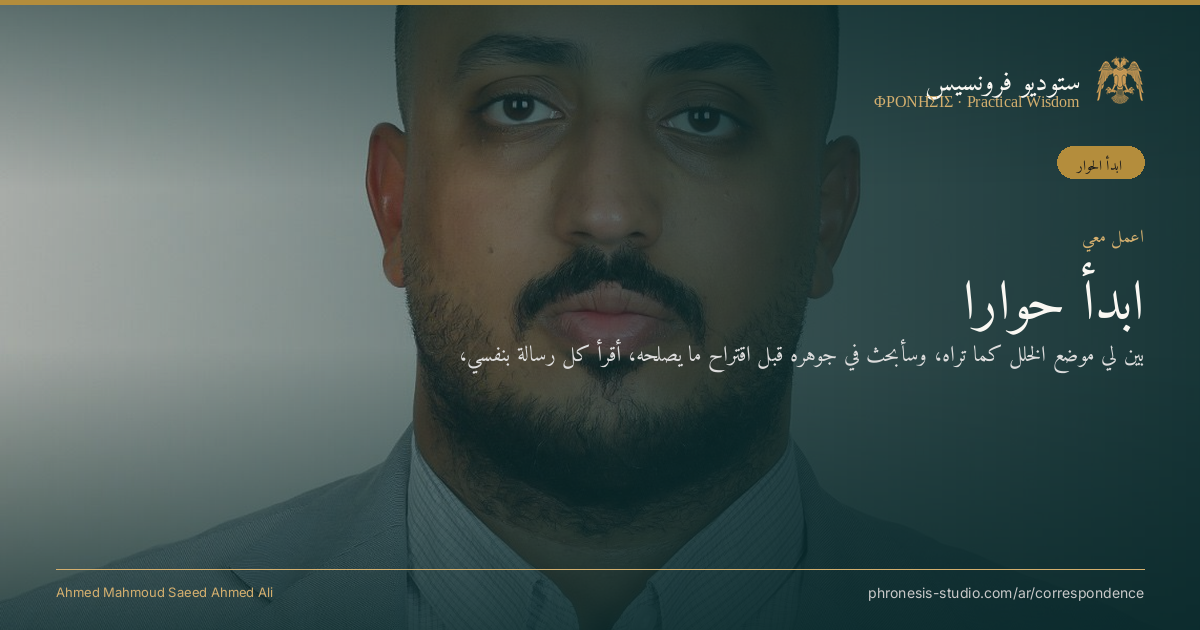
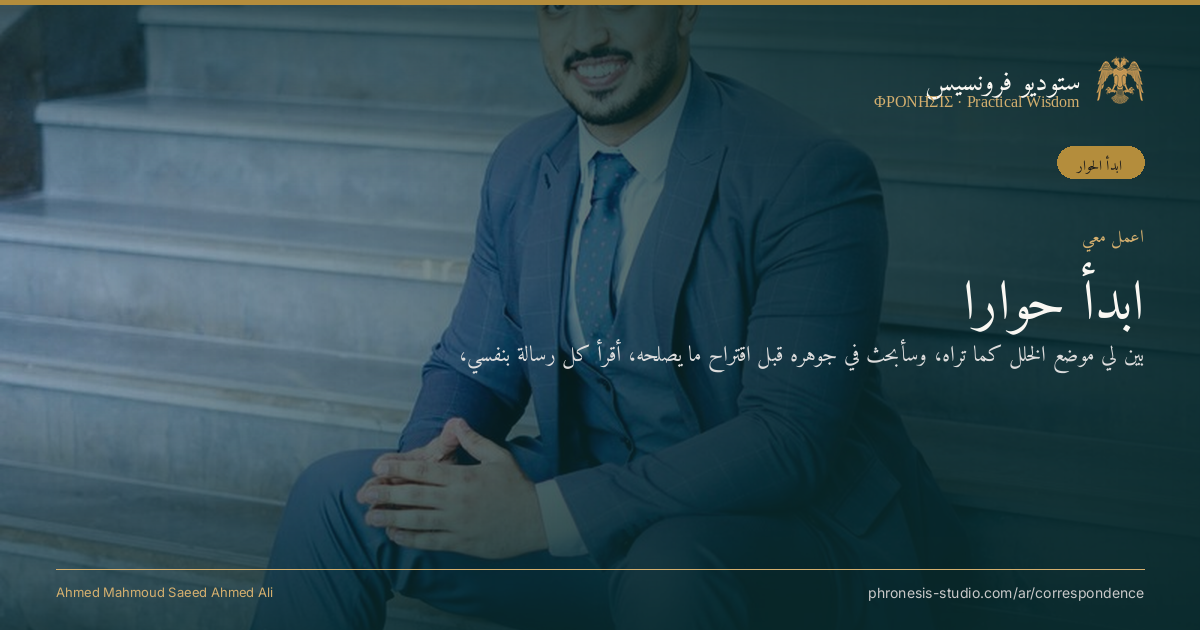
fix: endorsement container compact + Correspondence OG uses dedicated photo
Two fixes requested:

1. Endorsement landing page container was oversized (780px iframe) and
   did not match the Vouches section design. Replaced with a compact
   card matching the Vouches card pattern exactly:
   - small teal Download icon badge (top-left)
   - uppercase label
   - large serif author name
   - italic pull-quote
   - horizontal divider
   - titles + date+location
   - 'Download the full letter (PDF)' link
   No more iframe. Removed unused Quote, FileText, ExternalLink imports.

2. Correspondence page: the dedicated photograph you sent
   (founder-portrait-correspondence.jpg) was being shown as inline
   page content in the right sidebar (Contact.tsx), NOT as the OG image
   as you intended. Removed the inline portrait from the page content.
   Updated the Correspondence OG image route (both EN Satori and AR
   PIL) to use founder-portrait-correspondence.jpg as the background
   image, so the photograph now appears exclusively as the OG preview
   when the Correspondence page is shared on LinkedIn or social media.

diff --git a/src/app/[locale]/endorsements/[slug]/page.tsx b/src/app/[locale]/endorsements/[slug]/page.tsx
@@ -4,7 +4,7 @@ import { notFound } from "next/navigation";
 import { Nav } from "@/components/sections/Nav";
 import { Footer } from "@/components/sections/Footer";
 import { MouseProvider } from "@/components/anim";
-import { Download, ExternalLink, Quote, FileText } from "lucide-react";
+import { Download } from "lucide-react";
 import Link from "next/link";
 
 export const runtime = "nodejs";
@@ -149,76 +149,44 @@ export default async function EndorsementPage({
               {t("intro")}
             </p>
 
-            {/* Endorsement card */}
-            <div className="max-w-4xl rounded-2xl overflow-hidden border border-gold/30 bg-paper-warm shadow-[0_20px_60px_-20px_rgba(15,92,94,0.25)]">
-              {/* Header strip */}
-              <div
-                className={`flex items-start justify-between gap-3 px-5 md:px-7 py-5 border-b border-gold/20 bg-gradient-to-r from-teal/5 to-transparent ${isAR ? "flex-row-reverse" : ""}`}
-                dir={dir}
+            {/* Endorsement card, matching the Vouches section design */}
+            <div className="max-w-4xl">
+              <a
+                href={e.pdf}
+                target="_blank"
+                rel="noopener noreferrer"
+                download
+                className="group block max-w-2xl p-7 rounded-2xl bg-paper-warm border border-gold/30 hover:border-gold/60 transition-colors"
               >
-                <div className={isAR ? "text-right" : ""}>
-                  <p className="text-[10px] uppercase tracking-[0.2em] text-gold font-mono mb-2">
+                <div className={`flex items-center gap-3 mb-3 ${isAR ? "flex-row-reverse" : ""}`}>
+                  <div className="w-11 h-11 rounded-xl bg-teal/10 border border-teal/30 flex items-center justify-center text-teal flex-shrink-0">
+                    <Download size={18} strokeWidth={1.5} />
+                  </div>
+                  <span className="text-[10px] uppercase tracking-[0.18em] text-ink-dim font-mono leading-snug">
                     {label}
-                  </p>
-                  <p className="display text-ink text-xl md:text-2xl font-medium" style={headingFont}>
-                    {author}
-                  </p>
-                  <p className="body-serif text-xs md:text-sm text-ink-dim mt-2 leading-relaxed max-w-2xl">
+                  </span>
+                </div>
+
+                <h2 className="display text-ink text-2xl md:text-3xl mb-3 leading-tight" style={headingFont}>
+                  {author}
+                </h2>
+
+                <p className="body-serif text-sm text-ink-soft leading-relaxed mb-5 italic">
+                  &ldquo;{excerpt}&rdquo;
+                </p>
+
+                <div className="pt-5 border-t border-border">
+                  <p className="text-xs text-ink-dim body-serif mt-1 leading-relaxed">
                     {titleLine}
                   </p>
+                  <p className="text-xs text-ink-dim body-serif mt-2">{dateLocation}</p>
                 </div>
-                <p className="body-serif text-xs text-ink-dim italic whitespace-nowrap flex-shrink-0">
-                  {dateLocation}
-                </p>
-              </div>
 
-              {/* Pull-quote */}
-              <div className="relative px-5 md:px-7 py-6 border-b border-gold/20 bg-paper-warm/40" dir={dir}>
-                <Quote
-                  className={`absolute ${isAR ? "left-5" : "right-5"} top-5 text-gold/20`}
-                  size={40}
-                  strokeWidth={1}
-                />
-                <blockquote
-                  className={`body-serif text-base md:text-lg text-ink leading-relaxed italic ${isAR ? "text-right" : ""} pr-12`}
-                >
-                  &ldquo;{excerpt}&rdquo;
-                </blockquote>
-              </div>
-
-              {/* Embedded PDF viewer */}
-              <div className="bg-white">
-                <iframe
-                  src={`${e.pdf}#view=FitH&toolbar=1&navpanes=0`}
-                  title={`${label} · ${author}`}
-                  className="w-full"
-                  style={{ height: "780px", border: "0", display: "block" }}
-                />
-              </div>
-
-              {/* Download button footer */}
-              <div
-                className={`flex items-center justify-between gap-3 px-5 md:px-7 py-5 border-t border-gold/20 bg-paper-warm flex-wrap ${isAR ? "flex-row-reverse" : ""}`}
-                dir={dir}
-              >
-                <a
-                  href={e.pdf}
-                  target="_blank"
-                  rel="noopener noreferrer"
-                  download
-                  className="inline-flex items-center gap-2 bg-teal hover:bg-teal-bright text-paper text-xs sm:text-sm font-medium px-4 sm:px-5 py-2.5 rounded-full transition-colors whitespace-nowrap"
-                >
-                  <Download size={14} className="flex-shrink-0" />
-                  {t("downloadPdf")}
-                </a>
-                <Link
-                  href={`/${locale}/publications/${e.bookSlug}`}
-                  className={`inline-flex items-center gap-2 text-xs sm:text-sm text-teal hover:text-teal-bright transition-colors ${isAR ? "flex-row-reverse" : ""}`}
-                >
-                  <FileText size={14} />
-                  {t("viewBookPage")}
-                </Link>
-              </div>
+                <div className={`mt-5 inline-flex items-center gap-2 text-xs text-teal group-hover:text-teal-bright transition-colors ${isAR ? "flex-row-reverse" : ""}`}>
+                  <Download size={12} />
+                  <span className="link-underline">{t("downloadPdf")}</span>
+                </div>
+              </a>
             </div>
           </div>
         </main>

diff --git a/src/components/sections/Contact.tsx b/src/components/sections/Contact.tsx
@@ -209,16 +209,9 @@ export function Contact() {
 
           <Reveal className="lg:col-span-4" delay={0.18}>
             <div className="lg:sticky lg:top-32 space-y-10">
-              {/* Portrait photo */}
-              <div className="relative rounded-2xl overflow-hidden border border-gold/30 shadow-[0_20px_50px_-20px_rgba(15,92,94,0.3)] aspect-square">
-                <img
-                  src="/founder-portrait-correspondence.jpg"
-                  alt="Ahmed Ali — Founder of Studio of Phronesis"
-                  className="absolute inset-0 w-full h-full object-cover"
-                />
-                {/* Subtle bottom gradient for depth */}
-                <div className="absolute inset-x-0 bottom-0 h-1/4" style={{ background: "linear-gradient(to top, rgba(8,40,42,0.35), transparent)" }} />
-              </div>
+              {/* Note: founder-portrait-correspondence.jpg is intentionally NOT shown
+                  here as page content. It is used exclusively as the OG image for
+                  the Correspondence page (see /correspondence/opengraph-image.tsx). */}
 
               <div>
                 <p className="text-[10px] uppercase tracking-[0.25em] text-ink-dim mb-4 font-mono">{t("preferEmail")}</p>

diff --git a/src/app/[locale]/correspondence/opengraph-image.tsx b/src/app/[locale]/correspondence/opengraph-image.tsx
@@ -37,7 +37,8 @@ export default async function Image({
   const isAR = locale === "ar";
   const c = COPY[isAR ? "ar" : "en"];
   const [bg, assets] = await Promise.all([
-    readPublicImageAsDataUrl("founder-portrait.jpg"),
+    // Use the dedicated correspondence photograph (NOT the generic founder-portrait.jpg)
+    readPublicImageAsDataUrl("founder-portrait-correspondence.jpg"),
     loadAssets(),
   ]);
 

diff --git a/scripts/generate_arabic_og.py b/scripts/generate_arabic_og.py
@@ -569,7 +569,7 @@ PAGES = {
         "subtitle": "بيّن لي موضع الخلل كما تراه، وسأبحث في جوهره قبل اقتراح ما يصلحه. أقرأ كل رسالة بنفسي.",
         "badge": "ابدأ الحوار",
         "footer": "phronesis-studio.com/ar/correspondence",
-        "bg": "founder-portrait.jpg",
+        "bg": "founder-portrait-correspondence.jpg",
         "object_position": "center 20%",
     },
     "verify": {
